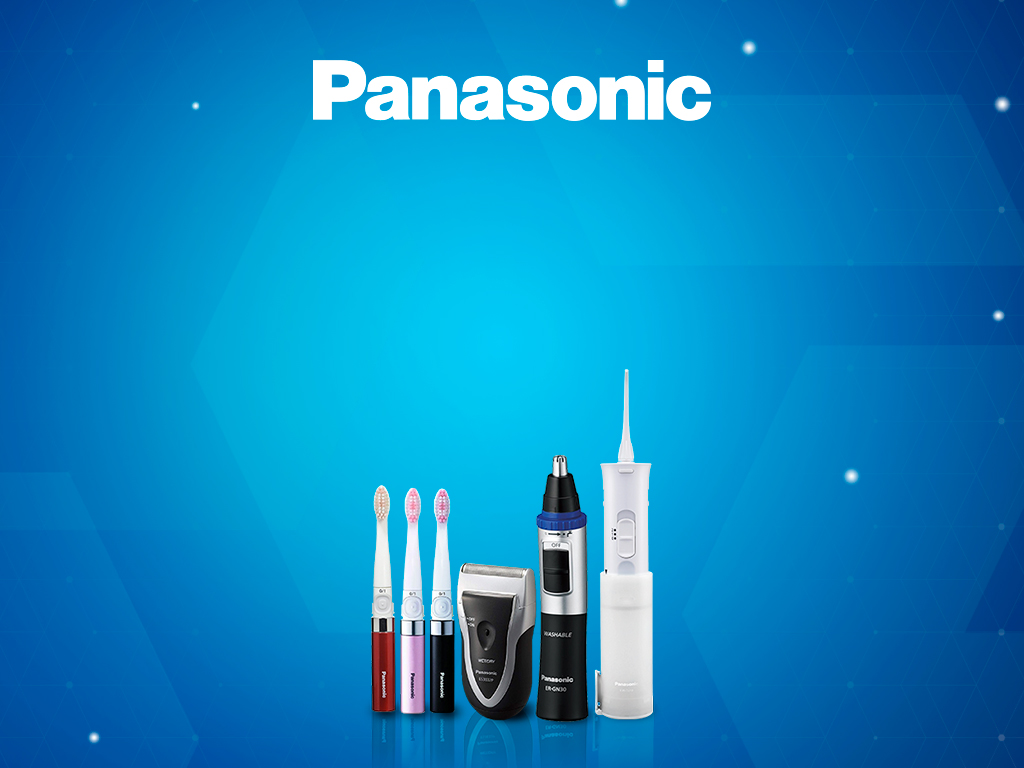
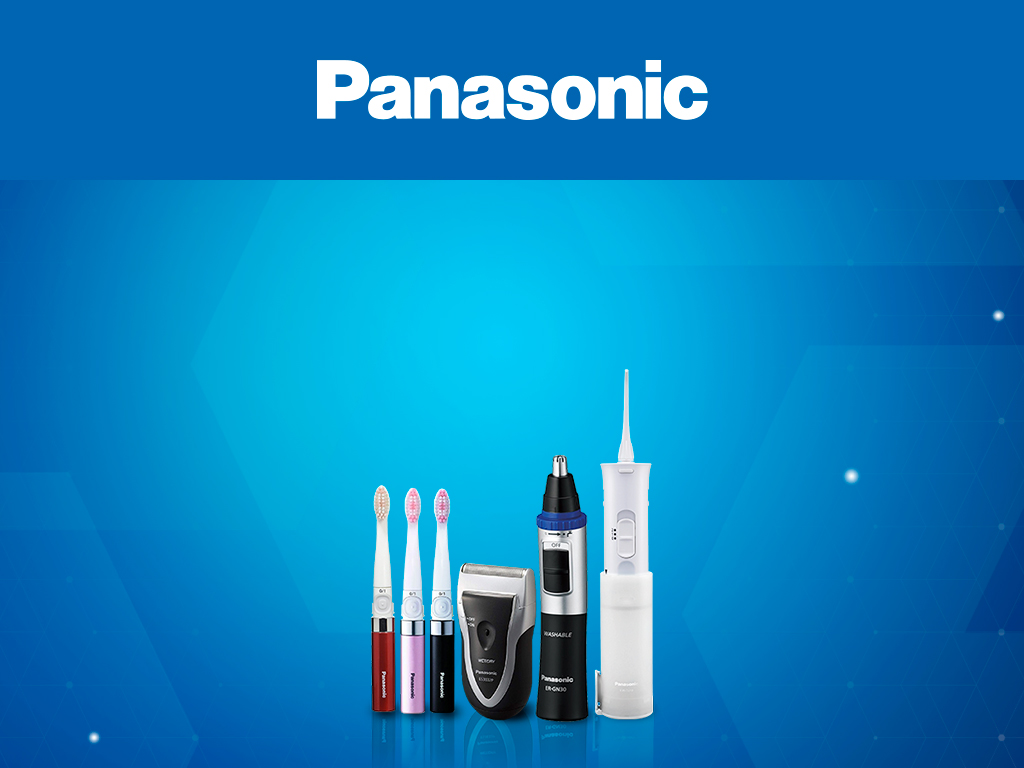
Add files via upload

diff --git a/index.html b/index.html
@@ -13,7 +13,6 @@
 	</head>
 	<body>
 		<div class="tela-1">
-			<img alt="Panasonic" src="images/back-bt-tela1.png" class="circle-tela1">
 			<img alt="Panasonic" src="images/seta-bt-tela1.png" class="seta-tela1 animated infinite fadeInLeft">
 			<button class="ir-tela-2 hvr-bounce-in"><img alt="Panasonic" src="images/bt-tela1.png"></button>
 		</div>
@@ -281,7 +280,7 @@
 				<div class="row">
 					<div class="col-md-6">
 						<p><strong>Perguntas</strong></p>
-						<p>O que te atraiu no produto que mais gostou?</p>
+						<p class="font21">O que mais te atraiu nos produtos selecionados anteriormente?</p>
 					</div>
 					<div class="col-md-12 form-group mb-0 text-center">
 						<div class="row">

diff --git a/css/style.css b/css/style.css
@@ -46,7 +46,7 @@ button:hover, button:focus{
 
 .logo{
 	position: absolute;
-    top: 24px;
+    top: 30px;
     left: 50px;
     z-index: 1;
 }
